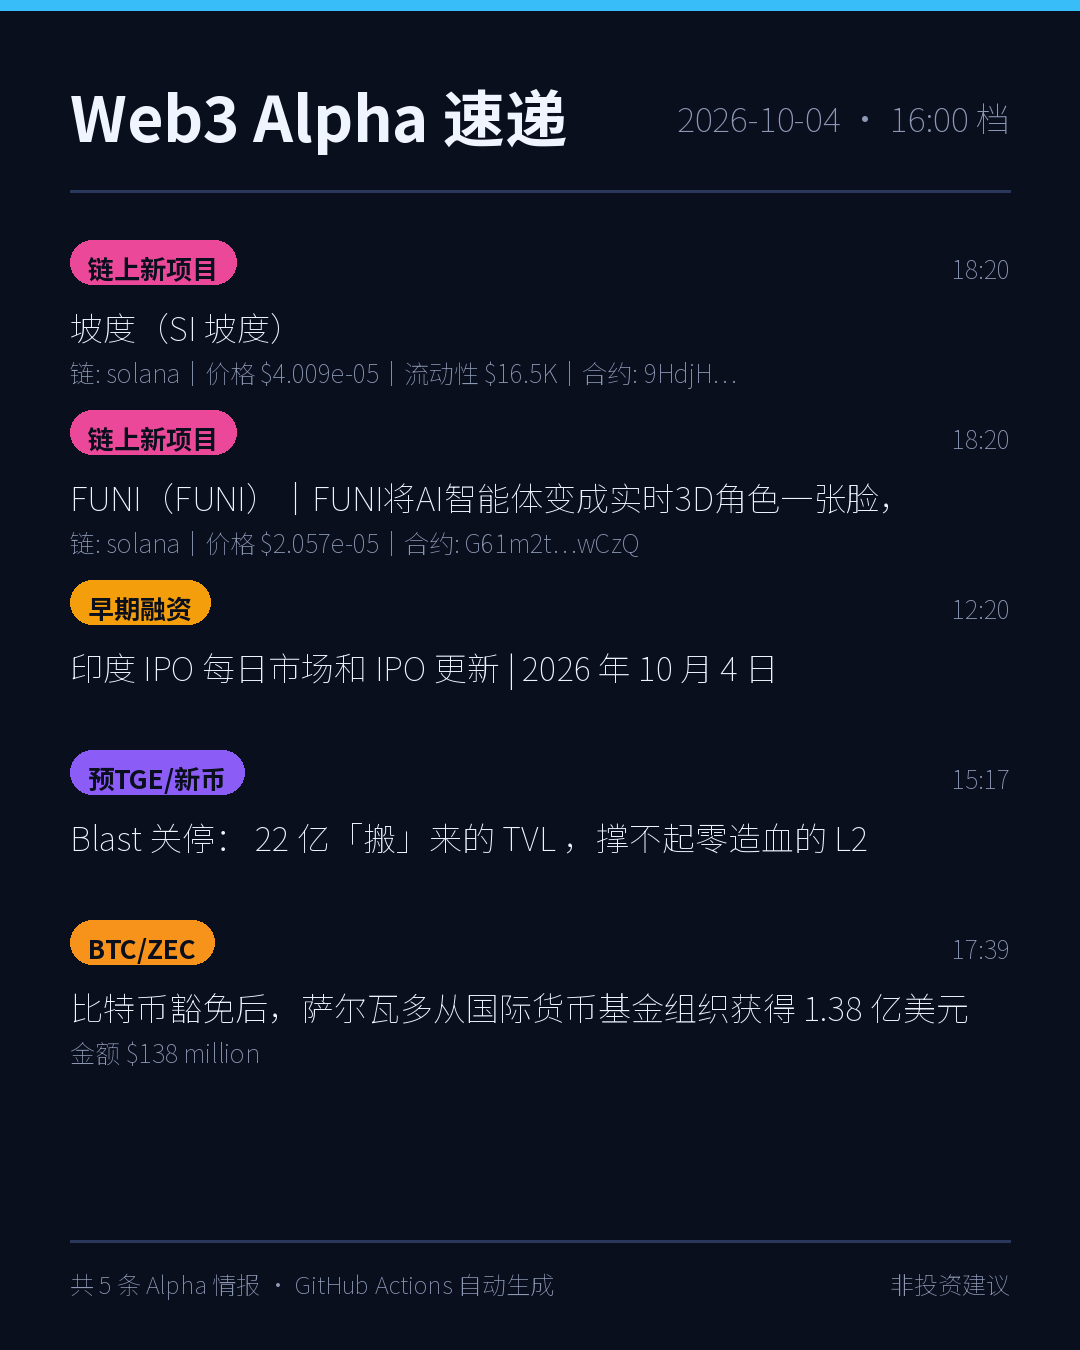
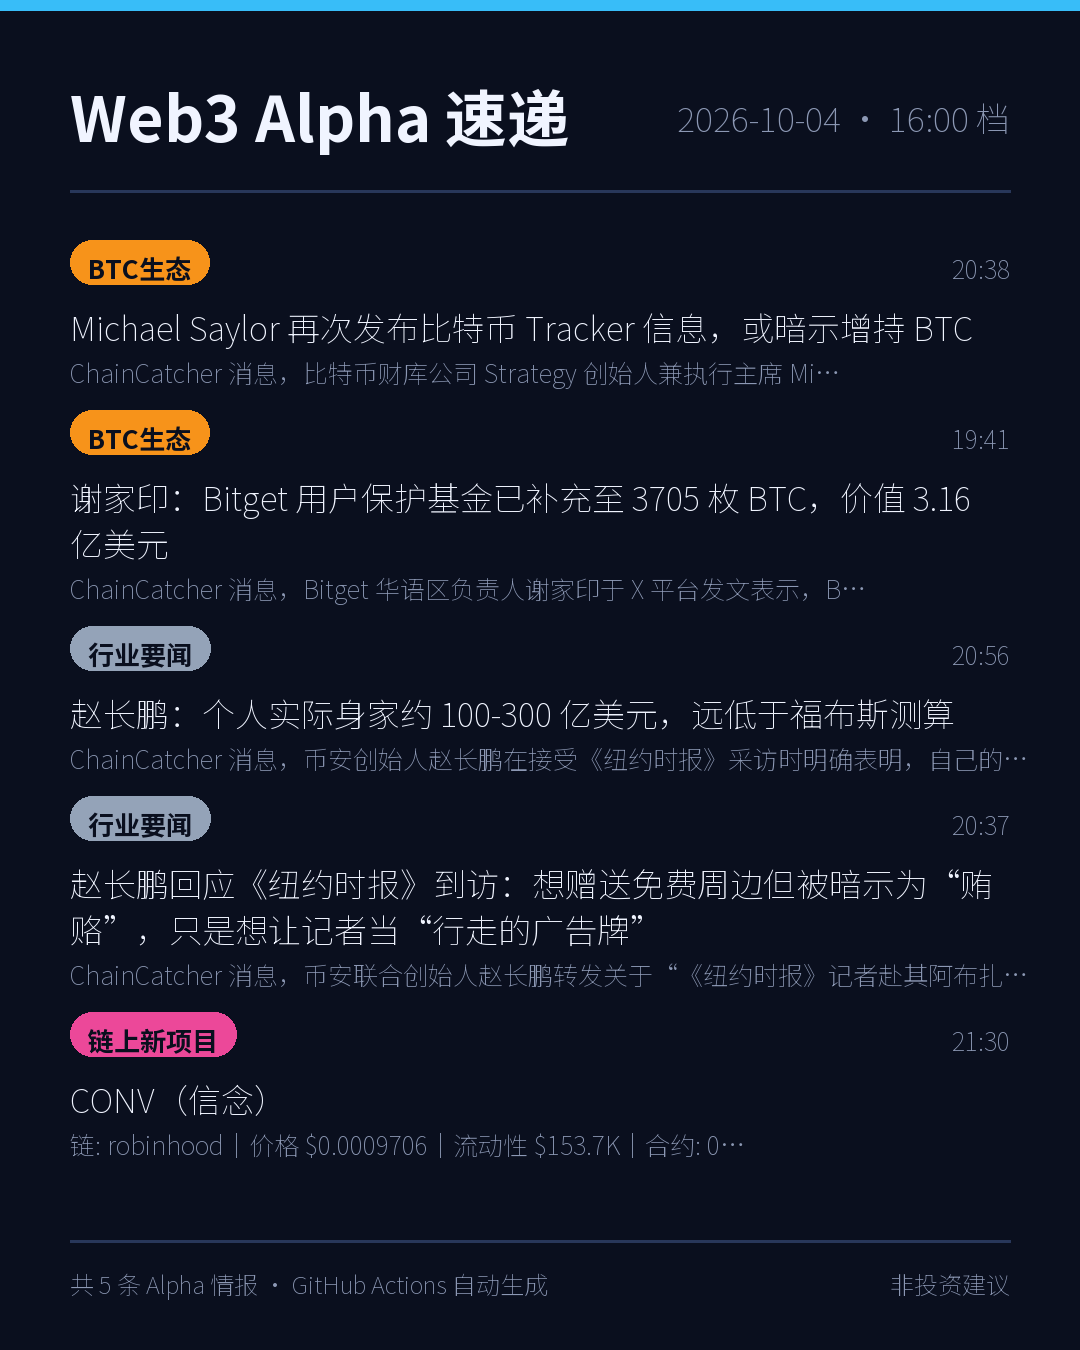
v3.3: 修复微信图片打不开 + 对标参考账号重构内容
- 海报域名 raw.githubusercontent.com 国内被墙 -> 改 jsDelivr CDN（按 commit SHA 引用，避免缓存 404）
- 消息排版改为文字优先：本档要点置顶，海报放最后并附直链兜底
- 新增 ChainCatcher/TheBlock/DLNews/Cointelegraph-Bitcoin/BitcoinOps 直连源
- 新增「行业要闻」板块；BTC 生态扩到 3 条成主轴
- 噪音过滤：股市/IPO/行情播报/巨鲸快讯/一周预告类直接丢弃（修复'印度IPO'混入）
- 金额事实必须带融资语境且不与标题重复，杜绝'金额 100300 亿美元'类乱码
- 链上新项目：过滤流动性<25K 的空气盘，标题不再用机器翻译营销文案
- 海报保留期 7 天 -> 30 天，旧消息图片不再 404

diff --git a/fetch_push.py b/fetch_push.py
@@ -1,6 +1,6 @@
 #!/usr/bin/env python3
 """
-Web3 Alpha 速递（GitHub Actions 云端版 v3）
+Web3 Alpha 速递（GitHub Actions 云端版 v3.3）
 - 每天北京时间 4 / 7 / 10 / 13 / 16 点五档推送（对冲 GitHub 定时延迟，
   实际到达约 6 / 9 / 12 / 15 / 18 点）
 - 每档只推上一档之后的新消息；状态存 state.json，经 GitHub API 回写仓库
@@ -30,7 +30,7 @@ FALLBACK_WINDOW = 3.5
 OVERLAP_MIN = 10
 MAX_PER_SOURCE = 6
 SEEN_KEEP = 300
-TOTAL_CAP = 8                            # 每档精选总条数上限
+TOTAL_CAP = 10                           # 每档精选总条数上限
 
 SENDKEY = os.environ.get("SERVERCHAN_SENDKEY", "")
 SENDKEY_FILE = os.path.join(os.path.dirname(os.path.abspath(__file__)), ".sendkey")
@@ -68,13 +68,20 @@ def gn(q, zh=True):
 
 
 FEEDS = [
-    # ---- 直连稳定源（主通道，不依赖 Google）----
+    # ---- 中文直连主通道（时效最好，带准确 pubDate）----
+    dict(group="web", name="ChainCatcher", url="https://www.chaincatcher.com/rss.xml"),
+    dict(group="web", name="BlockBeats", url="https://rss.theblockbeats.info/flash"),
+    dict(group="web", name="PANews", url="https://rss.panewslab.com/zh/whatsnew"),
+    # ---- 英文直连 ----
     dict(group="web", name="CoinDesk", url="https://www.coindesk.com/arc/outboundfeeds/rss/"),
     dict(group="web", name="Cointelegraph", url="https://cointelegraph.com/rss"),
     dict(group="web", name="Decrypt", url="https://decrypt.co/feed"),
-    dict(group="x", name="X·BlockBeats", url="https://rss.theblockbeats.info/flash"),
-    dict(group="x", name="X·PANews", url="https://rss.panewslab.com/zh/whatsnew"),
-    # ---- Google News 定向查询（补充通道，全部限定最近1天）----
+    dict(group="web", name="TheBlock", url="https://www.theblock.co/rss.xml"),
+    dict(group="web", name="DLNews", url="https://www.dlnews.com/arc/outboundfeeds/rss/"),
+    # ---- BTC 生态专属通道（对标参考账号的主线）----
+    dict(group="btczec", name="CT·Bitcoin", url="https://cointelegraph.com/rss/tag/bitcoin"),
+    dict(group="btczec", name="BitcoinOps", url="https://bitcoinops.org/feed.xml"),
+    # ---- Google News 定向补充（仅作关键词路由素材，不入「行业要闻」）----
     dict(group="raise", name="融资·中文",
          url=gn("加密 项目 完成 融资 种子轮 OR 领投 OR 战略轮 when:1d")),
     dict(group="raise", name="融资·英文",
@@ -87,32 +94,37 @@ FEEDS = [
          url=gn("TGE OR 代币生成 OR 快照 OR 积分 空投 when:1d")),
     dict(group="tge", name="新上币",
          url=gn("Binance Alpha OR 币安Alpha OR 新池 OR 上币 when:1d")),
-    dict(group="btczec", name="BTC生态",
-         url=gn("比特币生态 OR runes OR ordinals OR 比特币L2 when:1d")),
+    dict(group="btczec", name="BTC铭文",
+         url=gn("比特币 铭文 OR 符文 OR BRC-20 OR Alkanes OR Ordinals 铸造 上线 when:1d")),
     dict(group="btczec", name="ZEC生态",
          url=gn("Zcash OR ZEC 生态 OR 升级 OR 融资 when:1d")),
-    dict(group="btczec", name="BTC·英文",
-         url=gn("bitcoin L2 OR runes OR ordinals launch when:1d", zh=False)),
     dict(group="x", name="X·KOL热议",
          url=gn("推特 KOL 加密货币 OR web3 OR 代币 喊单 when:1d")),
 ]
 
 GROUPS = [
-    ("chain", "🆕 链上新项目", 2),
-    ("raise", "💰 早期融资雷达", 2),
-    ("testnet", "🧪 测试网与撸毛", 1),
+    ("btczec", "⚡ BTC 生态", 3),
+    ("news", "🌐 行业要闻", 2),
+    ("raise", "💰 早期融资雷达", 1),
     ("tge", "🚀 预TGE与新上币", 1),
-    ("btczec", "⚡ BTC/ZEC 生态", 1),
+    ("testnet", "🧪 测试网与撸毛", 1),
+    ("chain", "🆕 链上新项目", 1),
     ("x", "🐦 X/推特风向", 1),
 ]
-CHIP_LABEL = {"chain": "链上新项目", "raise": "早期融资", "testnet": "测试网撸毛",
-              "tge": "预TGE/新币", "btczec": "BTC/ZEC", "x": "X风向"}
-CHIP_COLOR = {"chain": (236, 72, 153), "raise": (245, 158, 11), "testnet": (16, 185, 129),
-              "tge": (139, 92, 246), "btczec": (247, 147, 26), "x": (56, 189, 248)}
+CHIP_LABEL = {"btczec": "BTC生态", "news": "行业要闻", "raise": "早期融资",
+              "testnet": "测试网撸毛", "tge": "预TGE/新币", "chain": "链上新项目",
+              "x": "X风向"}
+CHIP_COLOR = {"btczec": (247, 147, 26), "news": (148, 163, 184), "chain": (236, 72, 153),
+              "raise": (245, 158, 11), "testnet": (16, 185, 129), "tge": (139, 92, 246),
+              "x": (56, 189, 248)}
 
 # 关键词路由（优先级：BTCZEC > TGE > 测试网 > 融资 > 默认）
+# BTC 生态是主线（对标 @CG_BRC20 的「饼子热点整理」体例）
 BTCZEC_KW = ["比特币", "bitcoin", "btc", "符文", "铭文", "runes", "ordinals",
-             "brc-20", "ordinal", "zec", "zcash"]
+             "brc-20", "brc20", "ordinal", "zec", "zcash", "alkanes", "brc-420",
+             "src-20", "arc-20", "atomicals", "stacks", "bitvm", "taproot",
+             "inscription", "unisat", "铭刻", "序数", "比特币l2", "比特币二层",
+             "币安链上", "btc生态", "ordinals生态"]
 TGE_KW = ["tge", "代币生成", "快照", "snapshot", "上币", "listing",
           "binance alpha", "币安alpha", "launchpad", "ido", "发射"]
 TESTNET_KW = ["测试网", "testnet", "交互", "quest", "积分", "points", "撸毛", "领水"]
@@ -131,6 +143,46 @@ def route(default_group, title):
     if any(k in t for k in RAISE_KW):
         return "raise"
     return default_group
+
+
+# ---- 噪音过滤：Google News 常把「印度IPO」「美股财报」这类无关文章塞进来 ----
+_RELEVANT_KW = ["bitcoin", "btc", "crypto", "web3", "blockchain", "token", "defi", "nft",
+                "stablecoin", "ethereum", "eth", "solana", "airdrop", "mainnet", "testnet",
+                "ordinals", "runes", "brc-20", "brc20", "alkanes", "inscription", "ordinal",
+                "meme", "rwa", "dex", "cex", "layer2", "l2", "rollup", "staking", "validator",
+                "加密货币", "加密", "区块链", "代币", "空投", "稳定币", "以太坊", "比特币",
+                "铭文", "符文", "铭刻", "链上", "交易所", "钱包", "矿工", "挖矿", "质押",
+                "主网", "测试网", "山寨币", "币安", "欧易", "销毁", "清算", "链游"]
+_STRONG_KW = ["bitcoin", "btc", "crypto", "web3", "blockchain", "token", "ethereum",
+              "solana", "airdrop", "加密货币", "加密", "区块链", "代币", "空投", "比特币",
+              "以太坊", "铭文", "符文", "链上", "稳定币", "nft", "defi", "稳定币"]
+_NOISE_KW = ["ipo", "a股", "美股", "港股", "股市", "股票", "财报", "券商", "基金",
+             "楼市", "房地产", "原油", "黄金价格", "关税", "选举", "足球", "nba",
+             "新股申购", "上市公司", "保险", "银行股"]
+# 行情播报类噪音：参考账号给的是「项目动态」，不是「巨鲸转了 0.001 枚 BTC」
+_NOISE_PAT = ["多空比", "持仓量", "资金费率", "未平仓", "涨幅榜", "跌幅榜",
+              "价格预测", "今日价格", "行情播报", "24小时涨", "巨鲸", "转入交易所",
+              "转出交易所", "链上监测", "whale alert", "price prediction", "how to buy",
+              "price forecast", "what is ", "top 5 ", "top 10 ", "best crypto",
+              "一周预告", "周前瞻", "本周前瞻", "week ahead", "weekly preview"]
+_NOISE_DOMAIN = ["528btc", "thaicrypto", "coingabbar", "protraderdaily", "defisummary",
+                 "tapbit", "bitrue.com/blog", "beincrypto.com/price", "cryptonews.com/price"]
+
+
+def is_relevant(title, desc="", link=""):
+    """标题/摘要必须含加密相关词；排除股市噪音与行情播报类快讯。"""
+    t = (title or "").lower()
+    blob = t + " " + (desc or "").lower()
+    if not any(k in blob for k in _RELEVANT_KW):
+        return False
+    if any(k in t for k in _NOISE_KW) and not any(k in t for k in _STRONG_KW):
+        return False
+    if any(p in t for p in _NOISE_PAT):
+        return False
+    low_link = (link or "").lower()
+    if any(d in low_link for d in _NOISE_DOMAIN):
+        return False
+    return True
 
 
 # ---------------- GitHub API ----------------
@@ -153,7 +205,12 @@ def gh_api(path, method="GET", data=None, ok404=False):
 
 
 def gh_upload(path, local_path, message):
-    """上传文件到仓库（存在则覆盖），返回 raw URL。"""
+    """上传文件到仓库（存在则覆盖），返回国内可达的 CDN 链接。
+
+    注意：raw.githubusercontent.com 在国内被墙，微信内置浏览器必然裂图，
+    所以对外一律用 jsDelivr（国内多数网络可直连）。优先按 commit SHA 引用，
+    避免分支引用被 CDN 缓存 12 小时导致新图 404。
+    """
     if not (REPO and GH_TOKEN):
         return None
     content = base64.b64encode(open(local_path, "rb").read()).decode()
@@ -164,16 +221,24 @@ def gh_upload(path, local_path, message):
     body = {"message": message, "content": content, "branch": "main"}
     if sha:
         body["sha"] = sha
-    gh_api(f"/repos/{REPO}/contents/{urllib.parse.quote(path)}", "PUT", body)
-    return f"https://raw.githubusercontent.com/{REPO}/main/{urllib.parse.quote(path)}"
+    resp = gh_api(f"/repos/{REPO}/contents/{urllib.parse.quote(path)}", "PUT", body) or {}
+    q = urllib.parse.quote(path)
+    commit_sha = ((resp.get("commit") or {}).get("sha") or "")[:12]
+    if commit_sha:
+        return f"https://cdn.jsdelivr.net/gh/{REPO}@{commit_sha}/{q}"
+    return f"https://cdn.jsdelivr.net/gh/{REPO}@main/{q}"
 
 
 def gh_cleanup_posters(keep_date):
-    """删除 7 天前的海报目录，防止仓库无限膨胀。"""
+    """删除 30 天前的海报目录，防止仓库无限膨胀。
+
+    保留期从 7 天放宽到 30 天：以前 7 天后图片被删，微信里翻看旧消息
+    就是一片 404。仓库体积可控（每天约 4 张 × 150KB）。
+    """
     if not (REPO and GH_TOKEN):
         return
     try:
-        cutoff = datetime.strptime(keep_date, "%Y-%m-%d") - timedelta(days=7)
+        cutoff = datetime.strptime(keep_date, "%Y-%m-%d") - timedelta(days=30)
         dirs = gh_api(f"/repos/{REPO}/contents/posters", ok404=True) or []
         for d in dirs:
             if d.get("type") != "dir":
@@ -384,10 +449,18 @@ def fetch_chain_new(seen, cap=2):
             if meta["liq"]:
                 facts.append(f"流动性 {_fmt_usd(meta['liq'])}")
         facts.append(f"合约: {addr[:6]}…{addr[-4:]}")
+        # 流动性过低（<$25K）基本是空气盘/rug 高发区，不进精选
+        try:
+            if meta and meta.get("liq") and float(meta["liq"]) < 25_000:
+                print(f"    [流动性过低] {meta.get('symbol')} ${float(meta['liq']):,.0f}")
+                continue
+        except (TypeError, ValueError):
+            pass
+        # 只保留 名称+符号，不用项目自述的营销文案（机器翻译后基本是噪音）
         if meta and meta["symbol"]:
-            title = f"{meta['symbol']} ({meta['name']})" + (f"｜{desc}" if desc else "")
+            title = f"{meta['symbol']} ({meta['name']})"
         else:
-            title = desc or f"{chain} 链新代币 {addr[:8]}…"
+            title = f"{chain} 链新代币 {addr[:8]}…"
         link = (_find("website") or _find("twitter")
                 or (meta or {}).get("pair_url")
                 or f"https://dexscreener.com/{chain}/{addr}")
@@ -423,6 +496,16 @@ _FACT_LEAD = [r"(?:led by|co-led by)\s+([A-Z][\w&.,' ]{2,40}?)(?:,| with| and|\.
               r"([\w一-龥A-Za-z·]{2,16}?)\s*领投"]
 _FACT_DEADLINE = [r"(?:截止|截至|before|deadline|by)\s*[:：]?\s*(\d{1,2}\s?月\s?\d{1,2}\s?日|\w+ \d{1,2})",
                   r"(\d{1,2}\s?月\s?\d{1,2}\s?日)\s*(?:前|截止|领取|快照)"]
+# 金额必须带语境，否则容易抓到行情价、区块高度这类无关数字
+_FACT_AMT_CTX = ["融资", "轮", "投资", "估值", "价值", "募集", "拨款", "奖池", "奖励",
+                 "收购", "市值", "raised", "funding", "round", "valuation", "valued",
+                 "market cap", "acquisition", "worth"]
+# 只有标题本身在讲钱（融资/估值/奖励），才补充金额，避免抓到行情价等无关数字
+_FUND_TITLE_KW = ["融资", "轮", "投资", "估值", "募集", "收购", "拨款", "奖池",
+                  "奖励", "价值", "市值", "raised", "funding", "round", "valuation",
+                  "market cap"]
+# 项目方社媒账号（对标参考账号：每条都标明项目方，便于自己去核）
+_FACT_TW = [r"(?:twitter|x)\.com/([A-Za-z0-9_]{2,20})"]
 
 
 def _first_match(patterns, text):
@@ -430,6 +513,20 @@ def _first_match(patterns, text):
         m = re.search(p, text)
         if m:
             return (m.group(1) if m.groups() else m.group(0)).strip()
+    return ""
+
+
+def _digits(s):
+    return re.sub(r"\D", "", s or "")
+
+
+def _fact_amount(text):
+    """只保留带语境（融资/估值/奖励）的金额，避免抓到行情价等无关数字。"""
+    for p in _FACT_AMOUNT:
+        for m in re.finditer(p, text, re.I):
+            seg = text[max(0, m.start() - 60): m.end() + 40]
+            if any(c in seg for c in _FACT_AMT_CTX):
+                return m.group(0).strip()
     return ""
 
 
@@ -444,16 +541,23 @@ def enrich(it):
         return
     text = re.sub(r"(?is)<(script|style|noscript)[^>]*>.*?</\1>", " ", raw)
     text = parse_text(text)[:1600]
+    title = it.get("title") or ""
+    title_digits = _digits(title)
     facts = []
-    amt = _first_match(_FACT_AMOUNT, text)
-    if amt:
+    amt = _fact_amount(text)
+    # 标题里已经写过的数字不再重复展示（参考账号的体例：只补标题没说的信息）
+    if amt and _digits(amt) and _digits(amt) not in title_digits \
+            and any(k in title.lower() for k in _FUND_TITLE_KW):
         facts.append(f"金额 {amt}")
     lead = _first_match(_FACT_LEAD, text)
-    if lead:
+    if lead and lead.lower() not in title.lower():
         facts.append(f"领投 {lead}")
     dl = _first_match(_FACT_DEADLINE, text)
     if dl:
         facts.append(f"窗口 {dl}")
+    tw = _first_match(_FACT_TW, text)
+    if tw and tw.lower() not in ("intent", "share", "home", "i", "search"):
+        facts.append(f"𝕏 @{tw}")
     if facts:
         it["facts"] = facts
     if not it.get("desc"):
@@ -485,9 +589,14 @@ def build_items(since_dt, seen_before):
             # 描述与标题重复时丢弃（Google News 常见情况）
             if desc and (title[:12] in desc or desc[:12] in title):
                 desc = ""
-            g = route(feed["group"], title)
-            if g == "web":        # 全网新闻仅作关键词路由素材，不直接入精选
+            if not is_relevant(title, desc, link):
+                print(f"    [噪音过滤] {title[:44]}")
                 continue
+            g = route(feed["group"], title)
+            if g == "web":        # 直连优质源的头条进「行业要闻」；Google 源仍只作路由素材
+                if feed["name"].startswith("X·") or "GoogleNews" in feed["name"]:
+                    continue
+                g = "news"
             buckets[g].append(dict(group=g, pub=pub, title=title,
                                    link=link, desc=desc))
     chain_items, dex_failed = fetch_chain_new(seen, cap=2)
@@ -591,7 +700,7 @@ def make_poster(items, slot_dt, out_path):
 def build_tweet(items, slot_dt):
     lines = [f"⚡ Web3 Alpha 速递 | {slot_dt:%m-%d} {slot_dt:%H}点档"]
     emoji = {"chain": "🆕", "raise": "💰", "testnet": "🧪", "tge": "🚀",
-             "btczec": "⚡", "x": "🐦"}
+             "btczec": "⚡", "x": "🐦", "news": "🌐"}
     for g, header, _ in GROUPS:
         gi = [i for i in items if i["group"] == g]
         if not gi:
@@ -606,13 +715,15 @@ def build_tweet(items, slot_dt):
 
 def build_desp(items, poster_url, tweet, failed, trending=None):
     parts = []
-    if poster_url:
-        parts.append(f"![海报]({poster_url})")
-        parts.append(f"[📋 海报原图]({poster_url})")
-    parts.append("**📤 发推文案（复制即用）**")
-    parts.append(tweet)
+    # ① 纯文字要点放最前：外部图片/链接打不开时，正文照常可读
+    head = []
+    for i, it in enumerate(items, 1):
+        t = it.get("title_zh") or it["title"]
+        extra = f"（{'｜'.join(it['facts'])}）" if it.get("facts") else ""
+        head.append(f"{i}. {t}{extra}")
+    parts.append("**📌 本档要点**\n\n" + "\n".join(head))
     parts.append("---")
-    parts.append("**📋 本档明细**")
+    parts.append("**🗂 分板块明细**")
     for g, header, _ in GROUPS:
         gi = [i for i in items if i["group"] == g]
         if not gi:
@@ -626,12 +737,19 @@ def build_desp(items, poster_url, tweet, failed, trending=None):
             if it.get("facts"):
                 parts.append(f"  > 📌 {'｜'.join(it['facts'])}")
             elif it.get("desc"):
-                parts.append(f"  > {it['desc'][:70]}")
+                d = it["desc"][:70]
+                parts.append(f"  > {d}{'…' if len(it['desc']) > 70 else ''}")
     if trending:
         parts.append("\n**🔥 当前市场热搜**")
         parts.append("、".join(trending))
     if failed:
         parts.append(f"\n*部分源异常：{('、'.join(failed))[:60]}*")
+    parts.append("\n**📤 发推文案（复制即用）**")
+    parts.append(tweet)
+    if poster_url:
+        parts.append("\n**🖼 海报**（图片不显示就点下面直链用浏览器打开）")
+        parts.append(f"[海报原图（CDN 直链）]({poster_url})")
+        parts.append(f"![海报]({poster_url})")
     parts.append("\n*GitHub Actions 自动推送 · 非投资建议*")
     return "\n\n".join(parts)
 
